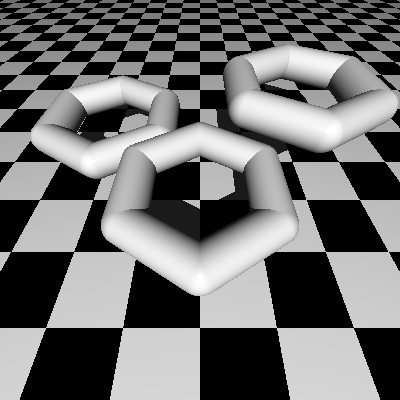
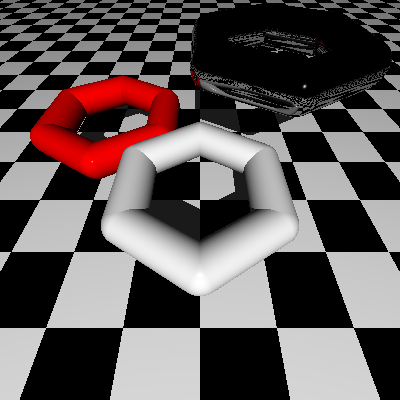
Chap 14: groups

Changed region(s): [[0.45, 0.0, 1.0, 0.39], [0.06, 0.18, 0.45, 0.45]]

diff --git a/src/tests/group_tests.rs b/src/tests/group_tests.rs
@@ -145,19 +145,24 @@ mod group_tests {
         edge.set_transformation(transformation);
         return edge;
     }
-    fn hexagon_side() -> Object {
+
+    fn hexagon_side(material : Material) -> Object {
 
         let mut side = Group::new();
-        side.add(hexagon_corner());
-        side.add(hexagon_edge());
+        let mut corner = hexagon_corner();
+        corner.set_material(material);
+        side.add(corner);
+        let mut edge = hexagon_edge();
+        edge.set_material(material);
+        side.add(edge);
         Object::new_group(side)
     }
 
-    fn hexagon() -> Object {
+    fn hexagon(material: Material) -> Object {
         let mut hex = Group::new();
         const N: i32 = 6;
         for i in 0..N {
-            let mut side = hexagon_side();
+            let mut side = hexagon_side(material);
             let alpha = i as Float * (2.0 * PI / (N as Float));
             let rot_y = rotation_y(alpha);
             side.set_transformation(rot_y);
@@ -185,15 +190,22 @@ mod group_tests {
         floor.set_material(material_floor.clone());
         world.objects.push(floor);
 
-        let mut hex = hexagon();
+        let mut hex = hexagon(Material::new());
         hex.set_transformation(translation(0.0, 1.0, -0.5));
         world.objects.push(hex);
 
-        let mut hex2 = hexagon();
-        hex2.set_transformation(translation(1.5, 1.5, 1.0));
+        let mut material_hex_2 = Material::new();
+        material_hex_2.color = Color::black();
+        material_hex_2.reflective = 0.5;
+        material_hex_2.ambient = 0.0;
+        let mut hex2 = hexagon(material_hex_2);
+        hex2.set_transformation(translation(1.0, 2.0, 1.0));
         world.objects.push(hex2);
 
-        let mut hex3 = hexagon();
+        let mut material_hex_3 = Material::new();
+        material_hex_3.color = Color::red();
+        material_hex_3.shininess = 500.0;
+        let mut hex3 = hexagon(material_hex_3);
         hex3.set_transformation(translation(-1.5, 1.0, 1.0));
         world.objects.push(hex3);
 
